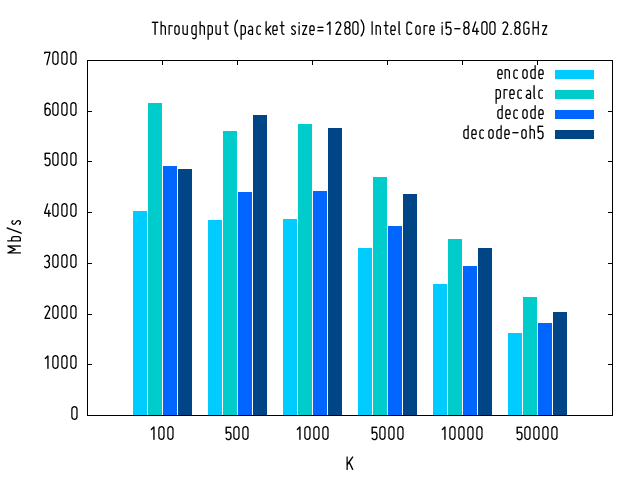
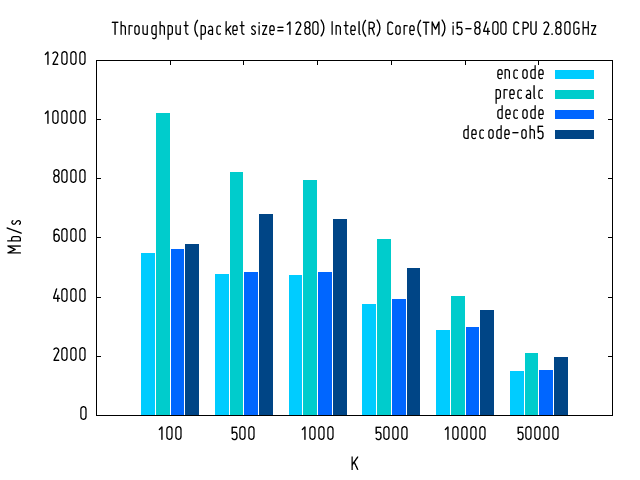
refactor benchmark to use encoder_reset() and generate graph data directly

diff --git a/benchmark.c b/benchmark.c
@@ -8,6 +8,8 @@
 
 #include <nanorq.h>
 
+#define TEST_BYTES 256 * 1024 * 1024
+
 #include "kvec.h"
 
 struct sym {
@@ -39,7 +41,7 @@ void dump_esi(nanorq *rq, struct ioctx *myio, int sbn, uint32_t esi,
     free(data);
     fprintf(stderr, "failed to encode packet data for sbn %d esi %d.", sbn,
             esi);
-    abort();
+    exit(1);
   } else {
     uint32_t tag = nanorq_tag(sbn, esi);
     struct sym s = {.tag = tag, .data = data};
@@ -66,14 +68,13 @@ void dump_block(nanorq *rq, struct ioctx *myio, int sbn, symvec *packets,
     dump_esi(rq, myio, sbn, esi, packets);
     num_rep++;
   }
-
   nanorq_encoder_cleanup(rq, sbn);
 }
 
 void usage(char *prog) {
   fprintf(stderr,
           "usage:\n%s <packet_size> <num_packets> <overhead_pct> "
-          "[<precalculate: (0,10)]\n",
+          "[<precalculate: (0,1)]\n",
           prog);
   exit(1);
 }
@@ -95,11 +96,17 @@ double encode(uint64_t len, size_t packet_size, size_t num_packets,
     nanorq_precalculate(rq);
   int num_sbn = nanorq_blocks(rq);
   double elapsed = 0.0;
-  uint64_t t0 = usecs();
-  for (int b = 0; b < num_sbn; b++) {
-    nanorq_generate_symbols(rq, b, myio);
+  size_t bytes = 0;
+
+  while (bytes < TEST_BYTES) {
+    uint64_t t0 = usecs();
+    for (int b = 0; b < num_sbn; b++) {
+      nanorq_generate_symbols(rq, b, myio);
+      nanorq_encoder_reset(rq, 0);
+    }
+    elapsed += (usecs() - t0) / 1000000.0;
+    bytes += num_packets * packet_size;
   }
-  elapsed = (usecs() - t0) / 1000000.0;
 
   for (int sbn = 0; sbn < num_sbn; sbn++) {
     dump_block(rq, myio, sbn, packets, overhead_pct);
@@ -118,48 +125,71 @@ double decode(uint64_t oti_common, uint32_t oti_scheme, struct ioctx *myio,
   }
 
   int num_sbn = nanorq_blocks(rq);
-
-  for (int i = 0; i < kv_size(*packets); i++) {
-    struct sym s = kv_A(*packets, i);
-    if (!nanorq_decoder_add_symbol(rq, (void *)s.data, s.tag, myio)) {
-      fprintf(stderr, "adding symbol %d to sbn %d failed.\n",
-              s.tag & 0x00ffffff, (s.tag >> 24) & 0xff);
-      abort();
-    }
-  }
+  int num_packets = kv_size(*packets);
+  int packet_size = nanorq_symbol_size(rq);
+  size_t bytes = 0;
   double elapsed = 0.0;
-  for (int sbn = 0; sbn < num_sbn; sbn++) {
-    uint64_t t0 = usecs();
-    if (!nanorq_repair_block(rq, myio, sbn)) {
-      fprintf(stderr, "decode of sbn %d failed.\n", sbn);
-      abort();
+  while (bytes < TEST_BYTES) {
+    for (int i = 0; i < kv_size(*packets); i++) {
+      struct sym s = kv_A(*packets, i);
+      if (!nanorq_decoder_add_symbol(rq, (void *)s.data, s.tag, myio)) {
+        fprintf(stderr, "adding symbol %d to sbn %d failed.\n",
+                s.tag & 0x00ffffff, (s.tag >> 24) & 0xff);
+        exit(1);
+      }
     }
+
+    uint64_t t0 = usecs();
+    for (int sbn = 0; sbn < num_sbn; sbn++) {
+      if (!nanorq_repair_block(rq, myio, sbn)) {
+        fprintf(stderr, "decode of sbn %d failed.\n", sbn);
+        exit(1);
+      }
+    }
+    nanorq_encoder_reset(rq, 0);
     elapsed += (usecs() - t0) / 1000000.0;
+    bytes += num_packets * packet_size;
+  }
+
+  for (int sbn = 0; sbn < num_sbn; sbn++) {
     nanorq_encoder_cleanup(rq, sbn);
   }
   nanorq_free(rq);
   return elapsed;
 }
 
-int run(size_t num_packets, size_t packet_size, float overhead_pct,
-        bool precalc) {
-  double elapsed;
-  uint64_t objsize = 160 * 1024 * 1024;
-  int num_sbn = objsize / (num_packets * packet_size);
-  if (num_sbn > 256)
-    num_sbn = 256;
+void clear_packets(symvec *packets) {
+  if (kv_size(*packets) > 0) {
+    for (int i = 0; i < kv_size(*packets); i++) {
+      free(kv_A(*packets, i).data);
+    }
+    kv_destroy(*packets);
+  }
+  kv_init(*packets);
+}
+
+int run(size_t num_packets, size_t packet_size, float overhead_pct) {
+  double elapsed[4] = {0.0, 0.0, 0.0, 0.0};
   uint64_t oti_common = 0;
   uint32_t oti_scheme = 0;
-  struct ioctx *myio;
+  struct ioctx *myio_in, *myio_out;
 
-  uint64_t sz = num_packets * packet_size * num_sbn;
+  uint64_t sz = num_packets * packet_size;
   uint8_t *in = calloc(1, sz);
   uint8_t *out = calloc(1, sz);
   random_bytes(in, sz);
 
-  myio = ioctx_from_mem(in, sz);
-  if (!myio) {
+  myio_in = ioctx_from_mem(in, sz);
+  if (!myio_in) {
     fprintf(stderr, "couldnt access mem at %p\n", in);
+    free(in);
+    free(out);
+    return -1;
+  }
+
+  myio_out = ioctx_from_mem(out, sz);
+  if (!myio_out) {
+    fprintf(stderr, "couldnt access mem at %p\n", out);
     free(in);
     free(out);
     return -1;
@@ -169,56 +199,42 @@ int run(size_t num_packets, size_t packet_size, float overhead_pct,
   kv_init(packets);
 
   // encode
-  elapsed = encode(sz, packet_size, num_packets, overhead_pct, myio, &packets,
-                   &oti_common, &oti_scheme, precalc);
+  elapsed[0] = encode(sz, packet_size, num_packets, 0, myio_in, &packets,
+                      &oti_common, &oti_scheme, false);
 
-  if (elapsed < 0)
-    abort();
-  fprintf(stdout,
-          "ENCODE | Symbol size: %u, symbol count = %u, encoded %.2f MB in "
-          "%5.3fsecs, "
-          "throughput: "
-          "%6.1fMbit/s (%d sbns)\n",
-          (unsigned)packet_size, (unsigned)num_packets,
-          1.0 * sz / (1024 * 1024), elapsed,
-          (8.0 * sz / (1024 * 1024 * elapsed)), num_sbn);
+  elapsed[2] = decode(oti_common, oti_scheme, myio_out, &packets);
 
-  myio->destroy(myio);
+  clear_packets(&packets);
 
-  // decode
-  myio = ioctx_from_mem(out, sz);
-  if (!myio) {
-    fprintf(stderr, "couldnt access mem at %p\n", out);
-    free(in);
-    free(out);
-    kv_destroy(packets);
-    return -1;
+  elapsed[1] = encode(sz, packet_size, num_packets, 0, myio_in, &packets,
+                      &oti_common, &oti_scheme, true);
+
+  clear_packets(&packets);
+  elapsed[3] = encode(sz, packet_size, num_packets, overhead_pct, myio_in,
+                      &packets, &oti_common, &oti_scheme, false);
+
+  elapsed[3] = decode(oti_common, oti_scheme, myio_out, &packets);
+
+  for (int i = 0; i < 4; i++) {
+    if (elapsed[i] <= 0.0)
+      exit(1);
   }
 
-  elapsed = decode(oti_common, oti_scheme, myio, &packets);
+  fprintf(stdout, "%10d %10.1f %10.1f %10.1f %10.1f\n", (int)num_packets,
+          (8.0 * TEST_BYTES / (1024 * 1024 * elapsed[0])),
+          (8.0 * TEST_BYTES / (1024 * 1024 * elapsed[1])),
+          (8.0 * TEST_BYTES / (1024 * 1024 * elapsed[2])),
+          (8.0 * TEST_BYTES / (1024 * 1024 * elapsed[3])));
 
-  if (elapsed < 0)
-    abort();
-  fprintf(
-      stdout,
-      "DECODE | Symbol size: %u, symbol count = %u, decoded %.2f MB in "
-      "%5.3fsecs using %3.1f%% overhead, throughput: %6.1fMbit/s (%d sbns)\n",
-      (unsigned)packet_size, (unsigned)num_packets, 1.0 * sz / (1024 * 1024),
-      elapsed, overhead_pct, (8.0 * sz / (1024 * 1024 * elapsed)), num_sbn);
-
-  myio->destroy(myio);
+  myio_in->destroy(myio_in);
+  myio_out->destroy(myio_out);
   // verify
   for (int i = 0; i < sz; i++) {
     assert(in[i] == out[i]);
   }
 
   // cleanup
-  if (kv_size(packets) > 0) {
-    for (int i = 0; i < kv_size(packets); i++) {
-      free(kv_A(packets, i).data);
-    }
-    kv_destroy(packets);
-  }
+  clear_packets(&packets);
 
   free(in);
   free(out);
@@ -235,9 +251,7 @@ int main(int argc, char *argv[]) {
   size_t packet_size = strtol(argv[1], NULL, 10); // T
   size_t num_packets = strtol(argv[2], NULL, 10); // K
   float overhead_pct = strtof(argv[3], NULL);     // overhead pct
-  bool precalc = ((argc > 4) && (strtod(argv[4], NULL) > 0)) ? true : false;
-
-  run(num_packets, packet_size, overhead_pct, precalc);
+  run(num_packets, packet_size, overhead_pct);
 
   return 0;
 }

diff --git a/nanorq.c b/nanorq.c
@@ -442,7 +442,8 @@ void nanorq_encoder_reset(nanorq *rq, uint8_t sbn) {
   if (kv_size(enc->repair_bin) > 0) {
     for (int rs = 0; rs < kv_size(enc->repair_bin); rs++)
       om_destroy(&(kv_A(enc->repair_bin, rs).row));
-    kv_size(enc->repair_bin) = 0;
+    kv_destroy(enc->repair_bin);
+    kv_init(enc->repair_bin);
   }
   if (kv_size(enc->repair_mask) > 0)
     bitmask_reset(&enc->repair_mask);
